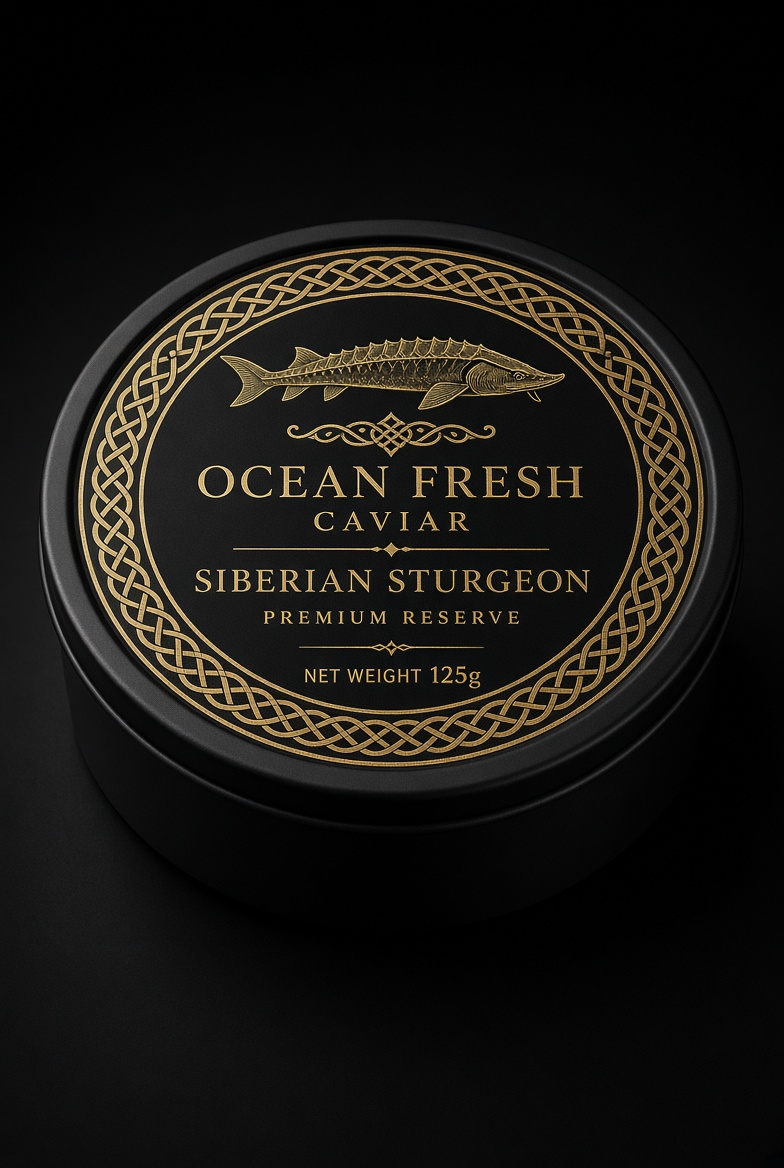
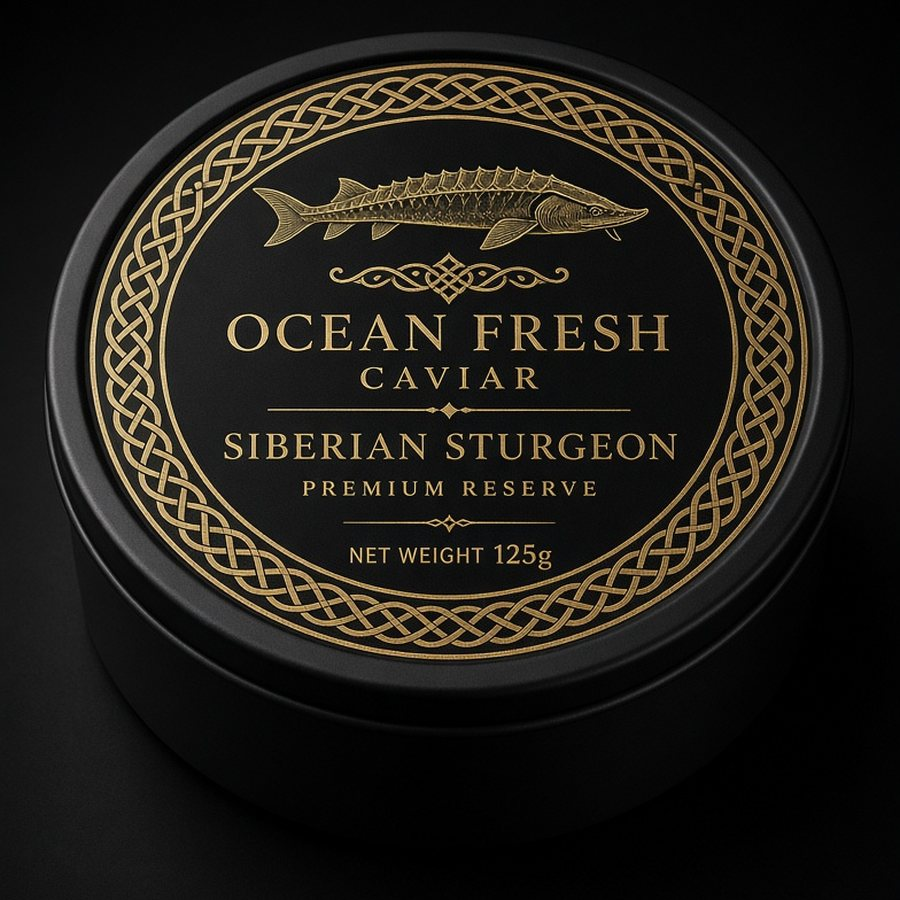
Показать банки в каталоге и облегчить файлы
Контейнер банки был скрыт до загрузки картинки, а браузер не грузит
скрытые ленивые изображения — из-за этого в каталоге не появлялось
ничего. Теперь плашка видна сразу, картинка проявляется по загрузке, а
при отсутствии файла блок удаляет себя.

Загруженные макеты обрезаны в квадрат и сжаты: 1 259 КБ -> 610 КБ на
пять банок, без видимой потери качества.

Claude-Session: https://claude.ai/code/session_01XJmKoJzcDr7rcitrdYjSKr

Changed region(s): [[0.0306, 0.0311, 0.9184, 0.7778], [0.6429, 0.7778, 0.6735, 0.8089]]

diff --git a/assets/css/styles.css b/assets/css/styles.css
@@ -132,11 +132,14 @@ p{margin:0 0 1em}
 
 /* ---------- product ---------- */
 .tin-photo{
-  display:none;margin:-6px 0 18px;border-radius:3px;overflow:hidden;
+  display:block;margin:-6px 0 18px;border-radius:3px;overflow:hidden;
   background:#0a0e15;aspect-ratio:1/1
 }
-.tin-photo.is-on{display:block}
-.tin-photo img{width:100%;height:100%;object-fit:cover;display:block;transition:transform .4s}
+.tin-photo img{
+  width:100%;height:100%;object-fit:cover;display:block;
+  opacity:0;transition:opacity .3s,transform .4s
+}
+.tin-photo img.is-on{opacity:1}
 .tin-photo:hover img{transform:scale(1.03)}
 .card h3 a{text-decoration:none}
 .card h3 a:hover{color:var(--gold)}
@@ -346,11 +349,14 @@ textarea{resize:vertical}
 .pdp{display:grid;gap:clamp(26px,4vw,52px);grid-template-columns:minmax(0,420px) 1fr;align-items:start}
 .pdp-visual{position:sticky;top:92px}
 .pdp-tin{
-  display:none;border-radius:4px;overflow:hidden;background:#080c12;
+  display:block;border-radius:4px;overflow:hidden;background:#080c12;
   border:1px solid var(--line-soft);aspect-ratio:1/1
 }
-.pdp-tin.is-on{display:block}
-.pdp-tin img{width:100%;height:100%;object-fit:cover;display:block}
+.pdp-tin img{
+  width:100%;height:100%;object-fit:cover;display:block;
+  opacity:0;transition:opacity .3s
+}
+.pdp-tin img.is-on{opacity:1}
 .pdp-grain{margin:18px auto 0;display:block;flex:0 0 120px;width:120px;height:120px}
 .pdp-body h1{font-size:clamp(2rem,4vw,3rem);margin:.15em 0 .1em}
 .pdp-desc{color:#c3cedb;font-size:1.05rem;max-width:64ch;margin:1em 0 1.6em}

diff --git a/assets/js/app.js b/assets/js/app.js
@@ -105,8 +105,8 @@
   /* Банка: assets/img/tins/<id>.jpg. Нет файла — блок убирает себя сам. */
   function tinPhoto(p) {
     return `<a class="tin-photo" href="caviar/${p.id}.html">
-        <img src="assets/img/tins/${p.id}.jpg" alt="${loc(p.name)}" loading="lazy"
-             onload="this.parentNode.classList.add('is-on')"
+        <img src="assets/img/tins/${p.id}.jpg" alt="${loc(p.name)}"
+             onload="this.classList.add('is-on')"
              onerror="this.parentNode.remove()">
       </a>`;
   }

diff --git a/assets/js/product.js b/assets/js/product.js
@@ -91,7 +91,7 @@
         <div class="pdp-visual">
           <div class="pdp-tin">
             <img src="../assets/img/tins/${P.id}.jpg" alt="${loc(P.name)}"
-                 onload="this.parentNode.classList.add('is-on')"
+                 onload="this.classList.add('is-on')"
                  onerror="this.parentNode.remove()">
           </div>
           ${grainAvatar(P, "pdp-grain")}
